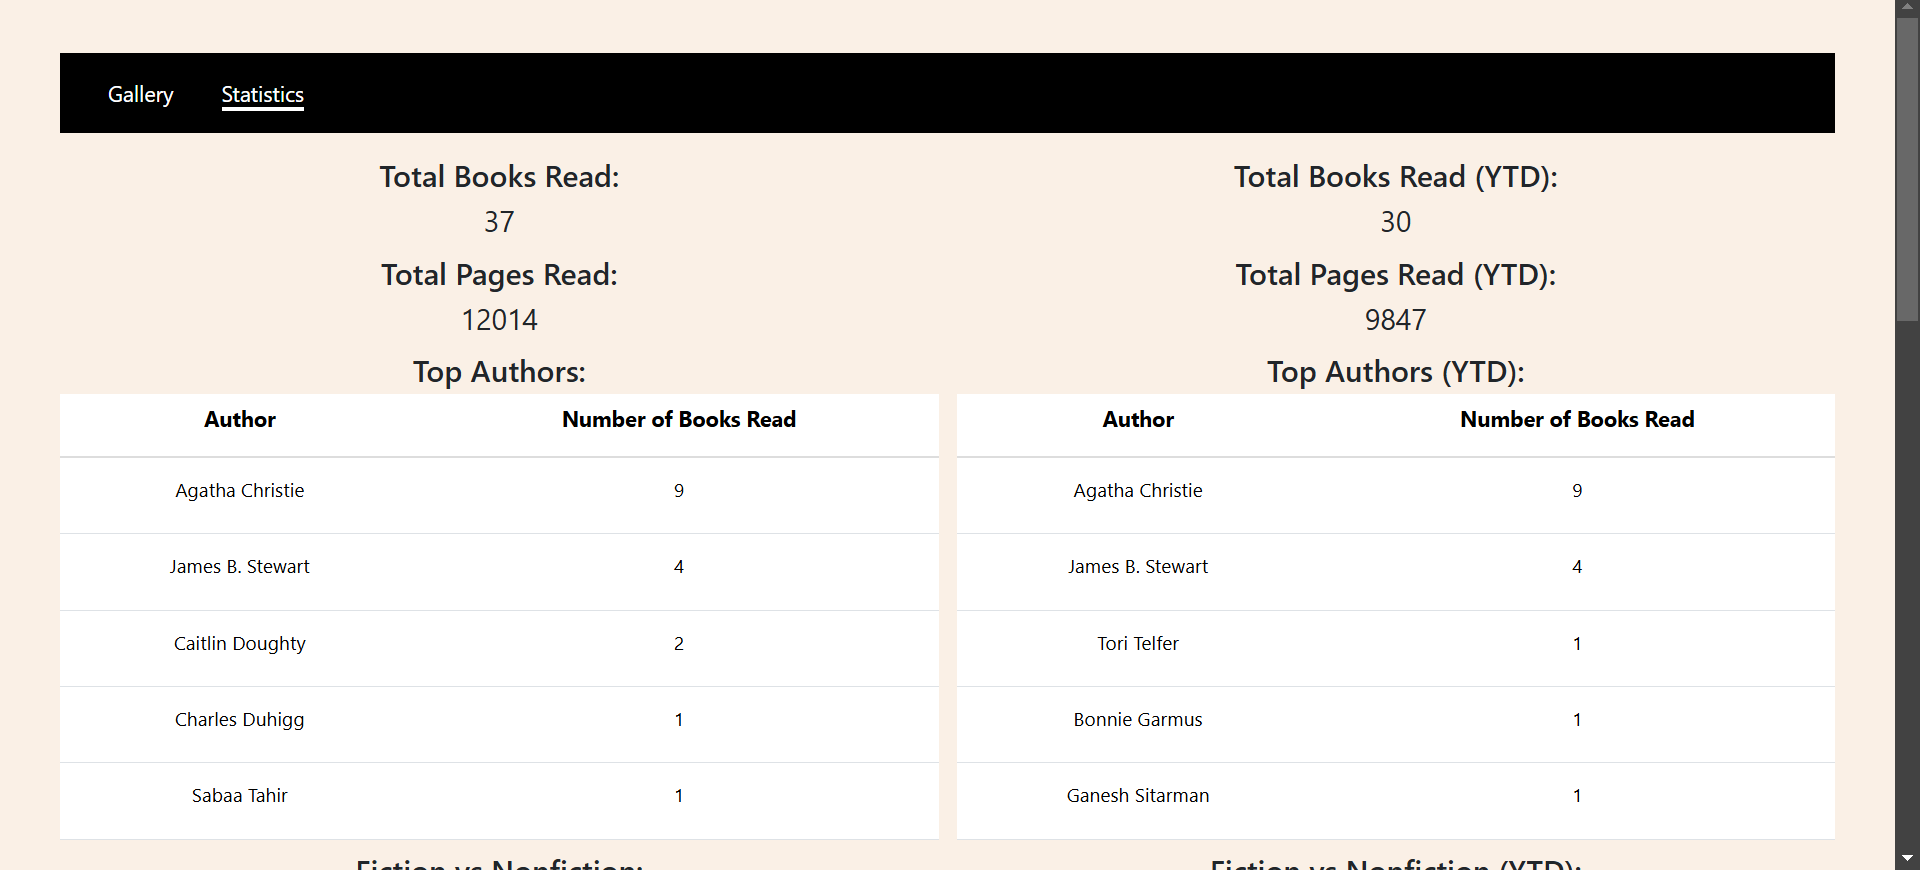
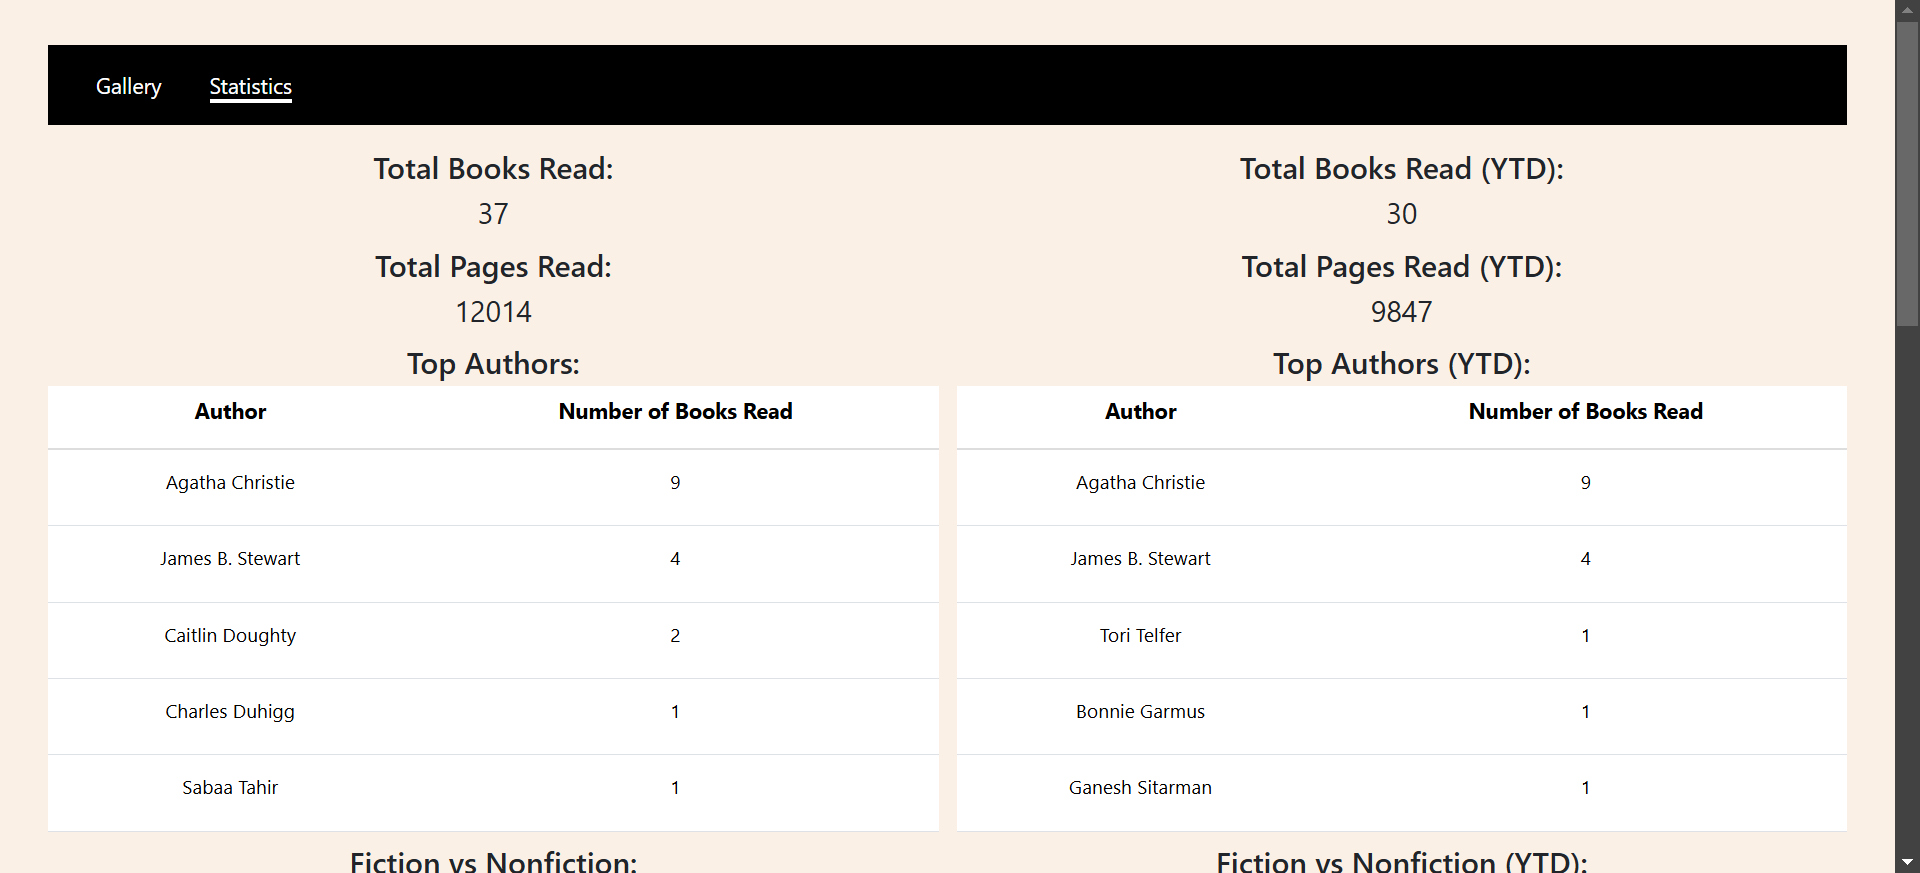
feat: put sorting and filtering into collapsible sidebar

diff --git a/client/src/Gallery.jsx b/client/src/Gallery.jsx
@@ -1,8 +1,9 @@
 import React from "react";
 import './App.css';
 
-import {Form, Table} from "react-bootstrap";
-import {faTh, faList} from "@fortawesome/free-solid-svg-icons"
+import {Card, Collapse, Form, Table} from "react-bootstrap";
+import {FontAwesomeIcon} from '@fortawesome/react-fontawesome'
+import {faTh, faList, faAnglesRight, faAnglesLeft} from "@fortawesome/free-solid-svg-icons"
 import Select from 'react-select'
 
 import Book from "./components/Book";
@@ -32,6 +33,7 @@ function Gallery() {
 	const [filterGenres, setFilterGenres] = React.useState([]);
 	const [genres, setGenres] = React.useState([]);
 	const [view, setView] = React.useState(0);
+	const [openSidebar, setOpenSidebar] = React.useState(true);
 
 	function openModal(id) {
 		let book = books[id - 1];
@@ -210,107 +212,99 @@ function Gallery() {
 		<div className="App">
 			<NewBookForm id={!books ? 1 : books.length + 1}/>
 
-			<div className="row" id="filterSort">
-				<div className="col-md-6">
-					<Form.Control
-						size="lg" type="text" placeholder="Search..."
-						id="searchBar"
-						onInput={(e)=>filterBooks(e.target.value.toLowerCase(), filterType, filterGenres)}
-					/>
-				</div>
-				<div className="col-md-2">
-					<Form.Label className="label-align" id="sortLabel" htmlFor="sort">Sort by:</Form.Label>
-				</div>
-				<div className="col-md-3">
-					<Form.Select size="lg" id="sort" name="sort" defaultValue={2} onInput={(e)=>sortBooks(e.target.value)}>
-						<option value={1}>Date Read (Oldest to Newest)</option>
-						<option value={2}>Date Read (Newest to Oldest)</option>
-						<option value={3}>Author, First Name (A - Z)</option>
-						<option value={4}>Author, First Name (Z - A)</option>
-						<option value={5}>Author, Last Name (A - Z)</option>
-						<option value={6}>Author, Last Name (Z - A)</option>
-						<option value={7}>Title (A - Z)</option>
-						<option value={8}>Title (Z - A)</option>
-					</Form.Select>
-				</div>
-				<div className="col-md-1" id="views">
-					<ViewButton 
-						id={0}
-						view={view}
-						setView={setView}
-						icon={faTh}
-					/>
-					<ViewButton 
-						id={1}
-						view={view}
-						setView={setView}
-						icon={faList}
-					/>
-					{/* <button onClick={()=>setView(0)} style={{float: "left"}}><FontAwesomeIcon icon={faTh} /></button>
-					<button onClick={()=>setView(1)} style={{float: "right"}}><FontAwesomeIcon icon={faList} /></button> */}
-				</div>
-			</div>
-
-			{/* Genre Filter */}
-			<div className="row" id="filter">
-				<div className="col-md-1">
-					<Form.Label style={{lineHeight: "250%"}}>Filter by:</Form.Label>
-				</div>
-				<div className="col-md-1">
-					<Form.Label className="label-align" id="filterTypeLabel" htmlFor="filterType">Type:</Form.Label>
-				</div>
-				<div className="col-md-3">
-					<Form.Select size="lg" id="filterType" name="filterType" defaultValue={1} onChange={(e)=>filterBooks(searchTerm, e.target.value, filterGenres)}>
-						<option value={1}>All</option>
-						<option value={2}>Fiction</option>
-						<option value={3}>Nonfiction</option>
-					</Form.Select>
-				</div>
-				<div className="col-md-1">
-					<Form.Label className="label-align" id="filterGenreLabel" htmlFor="filterGenre">Genre(s):</Form.Label>
-				</div>
-				<div className="col-md-6">
-					<Select options={genres} isMulti="true" id="filterGenre" name="filterGenre" onChange={(selectedOptions) => filterBooksByGenres(selectedOptions)} />
-				</div>
-			</div>
-
-			{/* Gallery */}
-			{view === 0 ?
-			<div className="gallery">
-				{!filteredBooks ? <p>"Loading..."</p> : filteredBooks.map((book, index) => {
-					return (
-						<Book
-							key={book.id}
-							id={book.id}
-							title={book.title}
-							imageUrl={book.imageurl}
-							handleClick={openModal}
-						/>
-					)
-				})}
-			</div> :
-			<div className="list">
-				{!filteredBooks ? <p>"Loading..."</p> : 
-				<Table>
-					<tbody>
-						{filteredBooks.map((book, index) => {
-							return (
-								<BookListRow
-									key={book.id}
-									id={book.id}
-									title={book.title}
-									author={book.author}
-									description={book.description}
-									imageUrl={book.imageurl}
-									handleClick={openModal}
+			<div className="flex-container">
+				<div style={{ minHeight: '150px' }}>
+					<Collapse in={openSidebar} dimension="width" id="sidebar">
+						<div>
+							<Card body style={{ width: '400px' }}>
+								<div id="viewsContainer">
+									<div id="views">
+										<ViewButton 
+											id={0}
+											view={view}
+											setView={setView}
+											icon={faTh}
+										/>
+										<ViewButton 
+											id={1}
+											view={view}
+											setView={setView}
+											icon={faList}
+										/>
+									</div>
+								</div>
+								<Form.Label htmlFor="sort">Sort by:</Form.Label>
+								<Form.Select size="lg" className="form-input" id="sort" name="sort" defaultValue={2} onInput={(e)=>sortBooks(e.target.value)}>
+									<option value={1}>Date Read (Oldest to Newest)</option>
+									<option value={2}>Date Read (Newest to Oldest)</option>
+									<option value={3}>Author, First Name (A - Z)</option>
+									<option value={4}>Author, First Name (Z - A)</option>
+									<option value={5}>Author, Last Name (A - Z)</option>
+									<option value={6}>Author, Last Name (Z - A)</option>
+									<option value={7}>Title (A - Z)</option>
+									<option value={8}>Title (Z - A)</option>
+								</Form.Select>
+								<Form.Label htmlFor="searchBar">Search:</Form.Label>
+								<Form.Control
+									size="lg" type="text" placeholder="Search..."
+									className="form-input" id="searchBar"
+									onInput={(e)=>filterBooks(e.target.value.toLowerCase(), filterType, filterGenres)}
 								/>
-							)
-						})}
-					</tbody>
-				</Table>
-				}
+								<Form.Label htmlFor="filterType">Type:</Form.Label>
+									<Form.Select size="lg" className="form-input" id="filterType" name="filterType" defaultValue={1} onChange={(e)=>filterBooks(searchTerm, e.target.value, filterGenres)}>
+									<option value={1}>All</option>
+									<option value={2}>Fiction</option>
+									<option value={3}>Nonfiction</option>
+								</Form.Select>
+								<Form.Label htmlFor="filterGenre">Genre(s):</Form.Label>
+								<Select options={genres} isMulti="true" className="form-input" id="filterGenre" name="filterGenre" onChange={(selectedOptions) => filterBooksByGenres(selectedOptions)} />
+							</Card>
+						</div>
+					</Collapse>
 				</div>
-			}
+
+				<button id="toggleSidebar" onClick={() => setOpenSidebar(!openSidebar)}>
+					{openSidebar ? <FontAwesomeIcon icon={faAnglesLeft}/> : <FontAwesomeIcon icon={faAnglesRight}/>}
+				</button>
+
+				{/* Gallery */}
+				{view === 0 ?
+				<div className="gallery">
+					{!filteredBooks ? <p>"Loading..."</p> : filteredBooks.map((book, index) => {
+						return (
+							<Book
+								key={book.id}
+								id={book.id}
+								title={book.title}
+								imageUrl={book.imageurl}
+								handleClick={openModal}
+							/>
+						)
+					})}
+				</div> :
+				<div className="list">
+					{!filteredBooks ? <p>"Loading..."</p> : 
+					<Table>
+						<tbody>
+							{filteredBooks.map((book, index) => {
+								return (
+									<BookListRow
+										key={book.id}
+										id={book.id}
+										title={book.title}
+										author={book.author}
+										description={book.description}
+										imageUrl={book.imageurl}
+										handleClick={openModal}
+									/>
+								)
+							})}
+						</tbody>
+					</Table>
+					}
+				</div>
+				}
+			</div>	
 
 			{/* Book Modal */}
 			<BookModal

diff --git a/client/src/App.css b/client/src/App.css
@@ -5,7 +5,7 @@
 
 body {
 	background-color: #faf0e6;
-	padding: 50px;
+	padding: 40px;
 }
 
 .gallery {
@@ -53,7 +53,6 @@ body {
 }
 
 #searchBar {
-	margin: auto;
 	height: 50px;
 }
 
@@ -69,6 +68,10 @@ select {
 
 .form-label {
 	font-size: large;
+}
+
+.form-input {
+    margin-bottom: 15px;
 }
 
 button {
@@ -103,15 +106,21 @@ td {
 }
 
 .svg-inline--fa {
-	height: 2em;
+	height: 3em;
+}
+
+#viewsContainer {
+    width: 100%;
+    height: 20px;
 }
 
 #views {
-	vertical-align: middle;
+    float: right;
 }
 
 #views button {
-	margin: 10px 0px;
+	margin: 0px 5px;
+    background-color: white;
 }
 
 td p {
@@ -142,11 +151,6 @@ div:has(input[name=filterGenre]) {
 
 #filter {
 	margin-bottom: 25px;
-}
-
-.label-align {
-	line-height: 250%;
-	float: right;
 }
 
 .genre-list {
@@ -191,4 +195,23 @@ nav a:hover, nav a:focus {
 
 .stat-text {
 	font-size: x-large;
+}
+
+.flex-container {
+	width: 100%;
+	display: flex;
+	flex-wrap: nowrap;
+	align-items: flex-start;
+	margin-top: 20px;
+}
+
+#toggleSidebar {
+    border-radius: 0px 10px 10px 0px;
+    border-width: 1px;
+    border-style: solid;
+    border-color: rgba(0, 0, 0, 0.175);;
+    background-color: white;
+    font-size: smaller;
+    padding: 5px;
+    margin-right: 5px;
 }

diff --git a/client/src/components/ViewButton.jsx b/client/src/components/ViewButton.jsx
@@ -1,13 +1,10 @@
 import {FontAwesomeIcon} from '@fortawesome/react-fontawesome'
 
 export default function ViewButton(props) {
-    const styleButton = {
-        float : props.id === 0 ? "left" : "right"
-    }
     const styleSvg = {
         color : props.view === props.id ? "black" : "lightslategray"
     }
 	return (
-		<button onClick={()=>props.setView(props.id)} style={styleButton}><FontAwesomeIcon icon={props.icon} style={styleSvg} className='icon'/></button>
+		<button onClick={()=>props.setView(props.id)}><FontAwesomeIcon icon={props.icon} style={styleSvg} className='icon'/></button>
 	);
 }

diff --git a/README.md b/README.md
@@ -40,6 +40,11 @@ A search filter allows for filtering on author and title. The ability to filteri
 ![Sorting](demo_img/demo5.png)
 *Sorting*
 
+The sorting and filtering functionality is encapsulated in a collapsible sidebar, which can be closed to allow for more books to be shown on a single line.
+
+![Modal of Retrieved Books](demo_img/demo14.png)
+*Collapsed Sidebar*
+
 In addition, there is a page that displays numerous statistics, both in terms of the total and the year to date values. Measured statistics include books read, pages read, top authors, percentage of fiction and nonfiction books read, and top genres.
 
 ![Statistics 1](demo_img/demo11.png)
